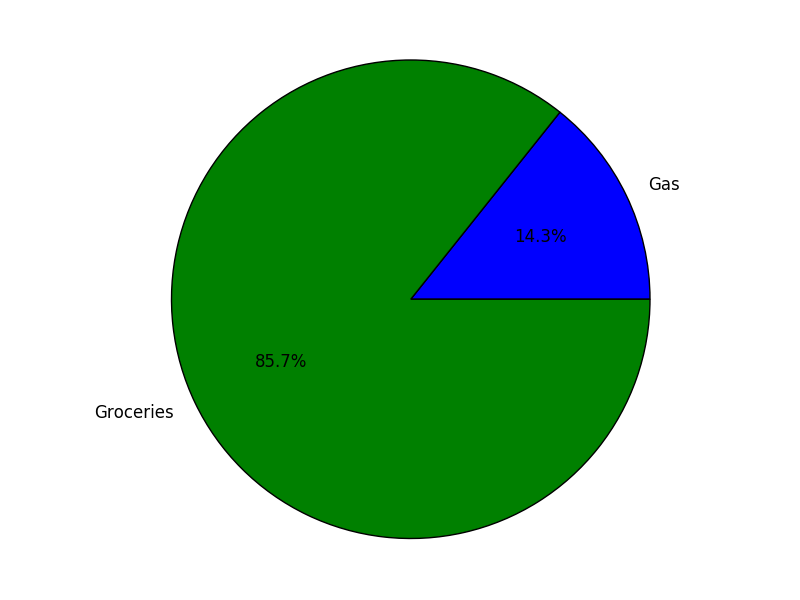
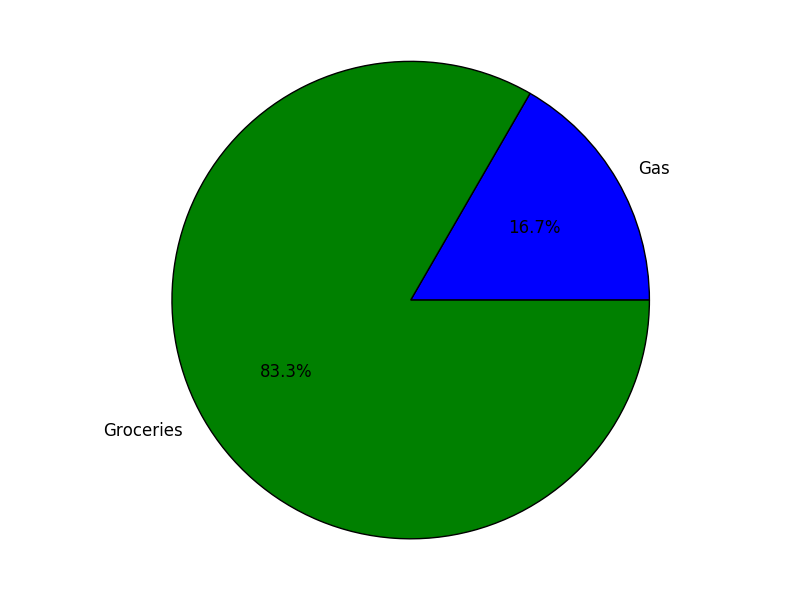
Modify expenses to get data from csv file

diff --git a/doMath/ch2/expenses.py b/doMath/ch2/expenses.py
@@ -1,6 +1,17 @@
 """ Visualizing my Expenses """
 
 import matplotlib.pyplot as plt
+import csv
+
+def process_csv():
+    with open('expenses.csv', newline='') as csvfile:
+        streamreader = csv.reader(csvfile, delimiter=',')
+        labels = []
+        values = []
+        for row in streamreader:
+            labels.append(row[0])
+            values.append(row[1])
+    draw_chart(labels, values)
 
 def draw_chart(labels, values):
     plt.pie(values, labels=labels, autopct='%1.1f%%')
@@ -9,13 +20,4 @@ def draw_chart(labels, values):
     plt.show()
 
 if __name__ == '__main__':
-    categories = int(input('Enter number of categories: '))
-    labels = []
-    values = []
-    while categories > 0:
-        label = input('Enter category: ')
-        labels.append(label)
-        value = float(input('Expenditure: '))
-        values.append(value)
-        categories = categories - 1
-    draw_chart(labels, values)
+    process_csv()
